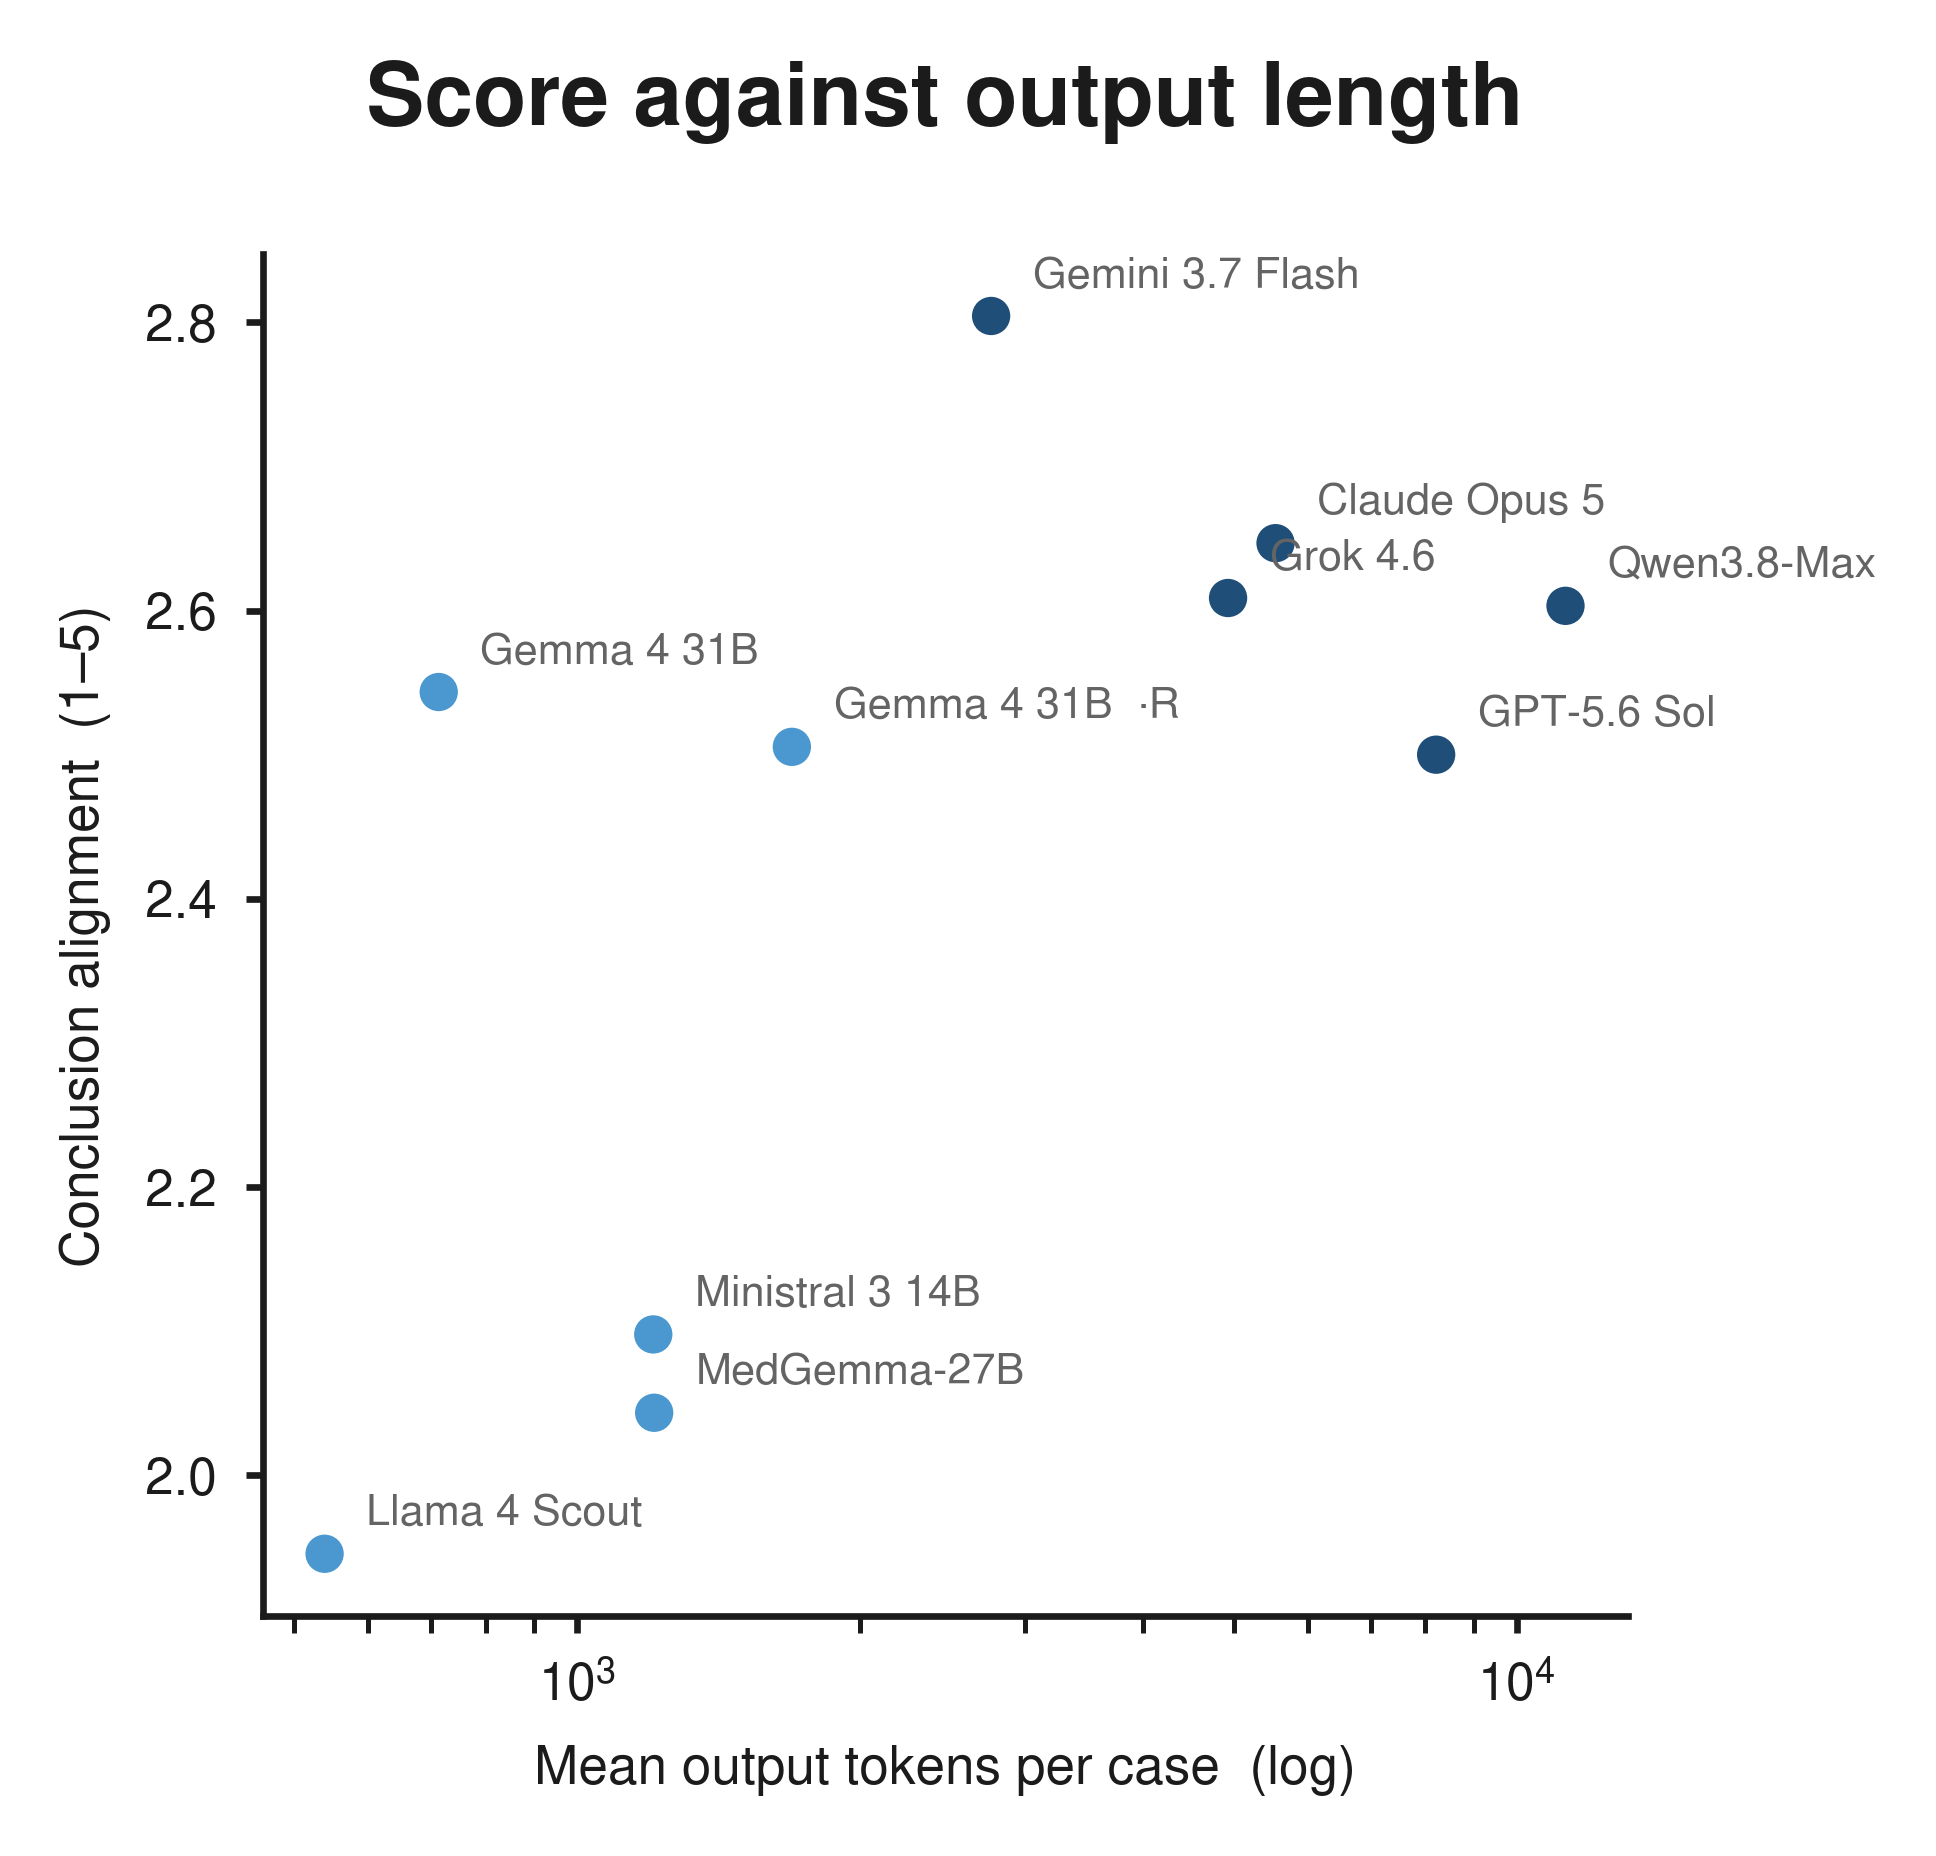
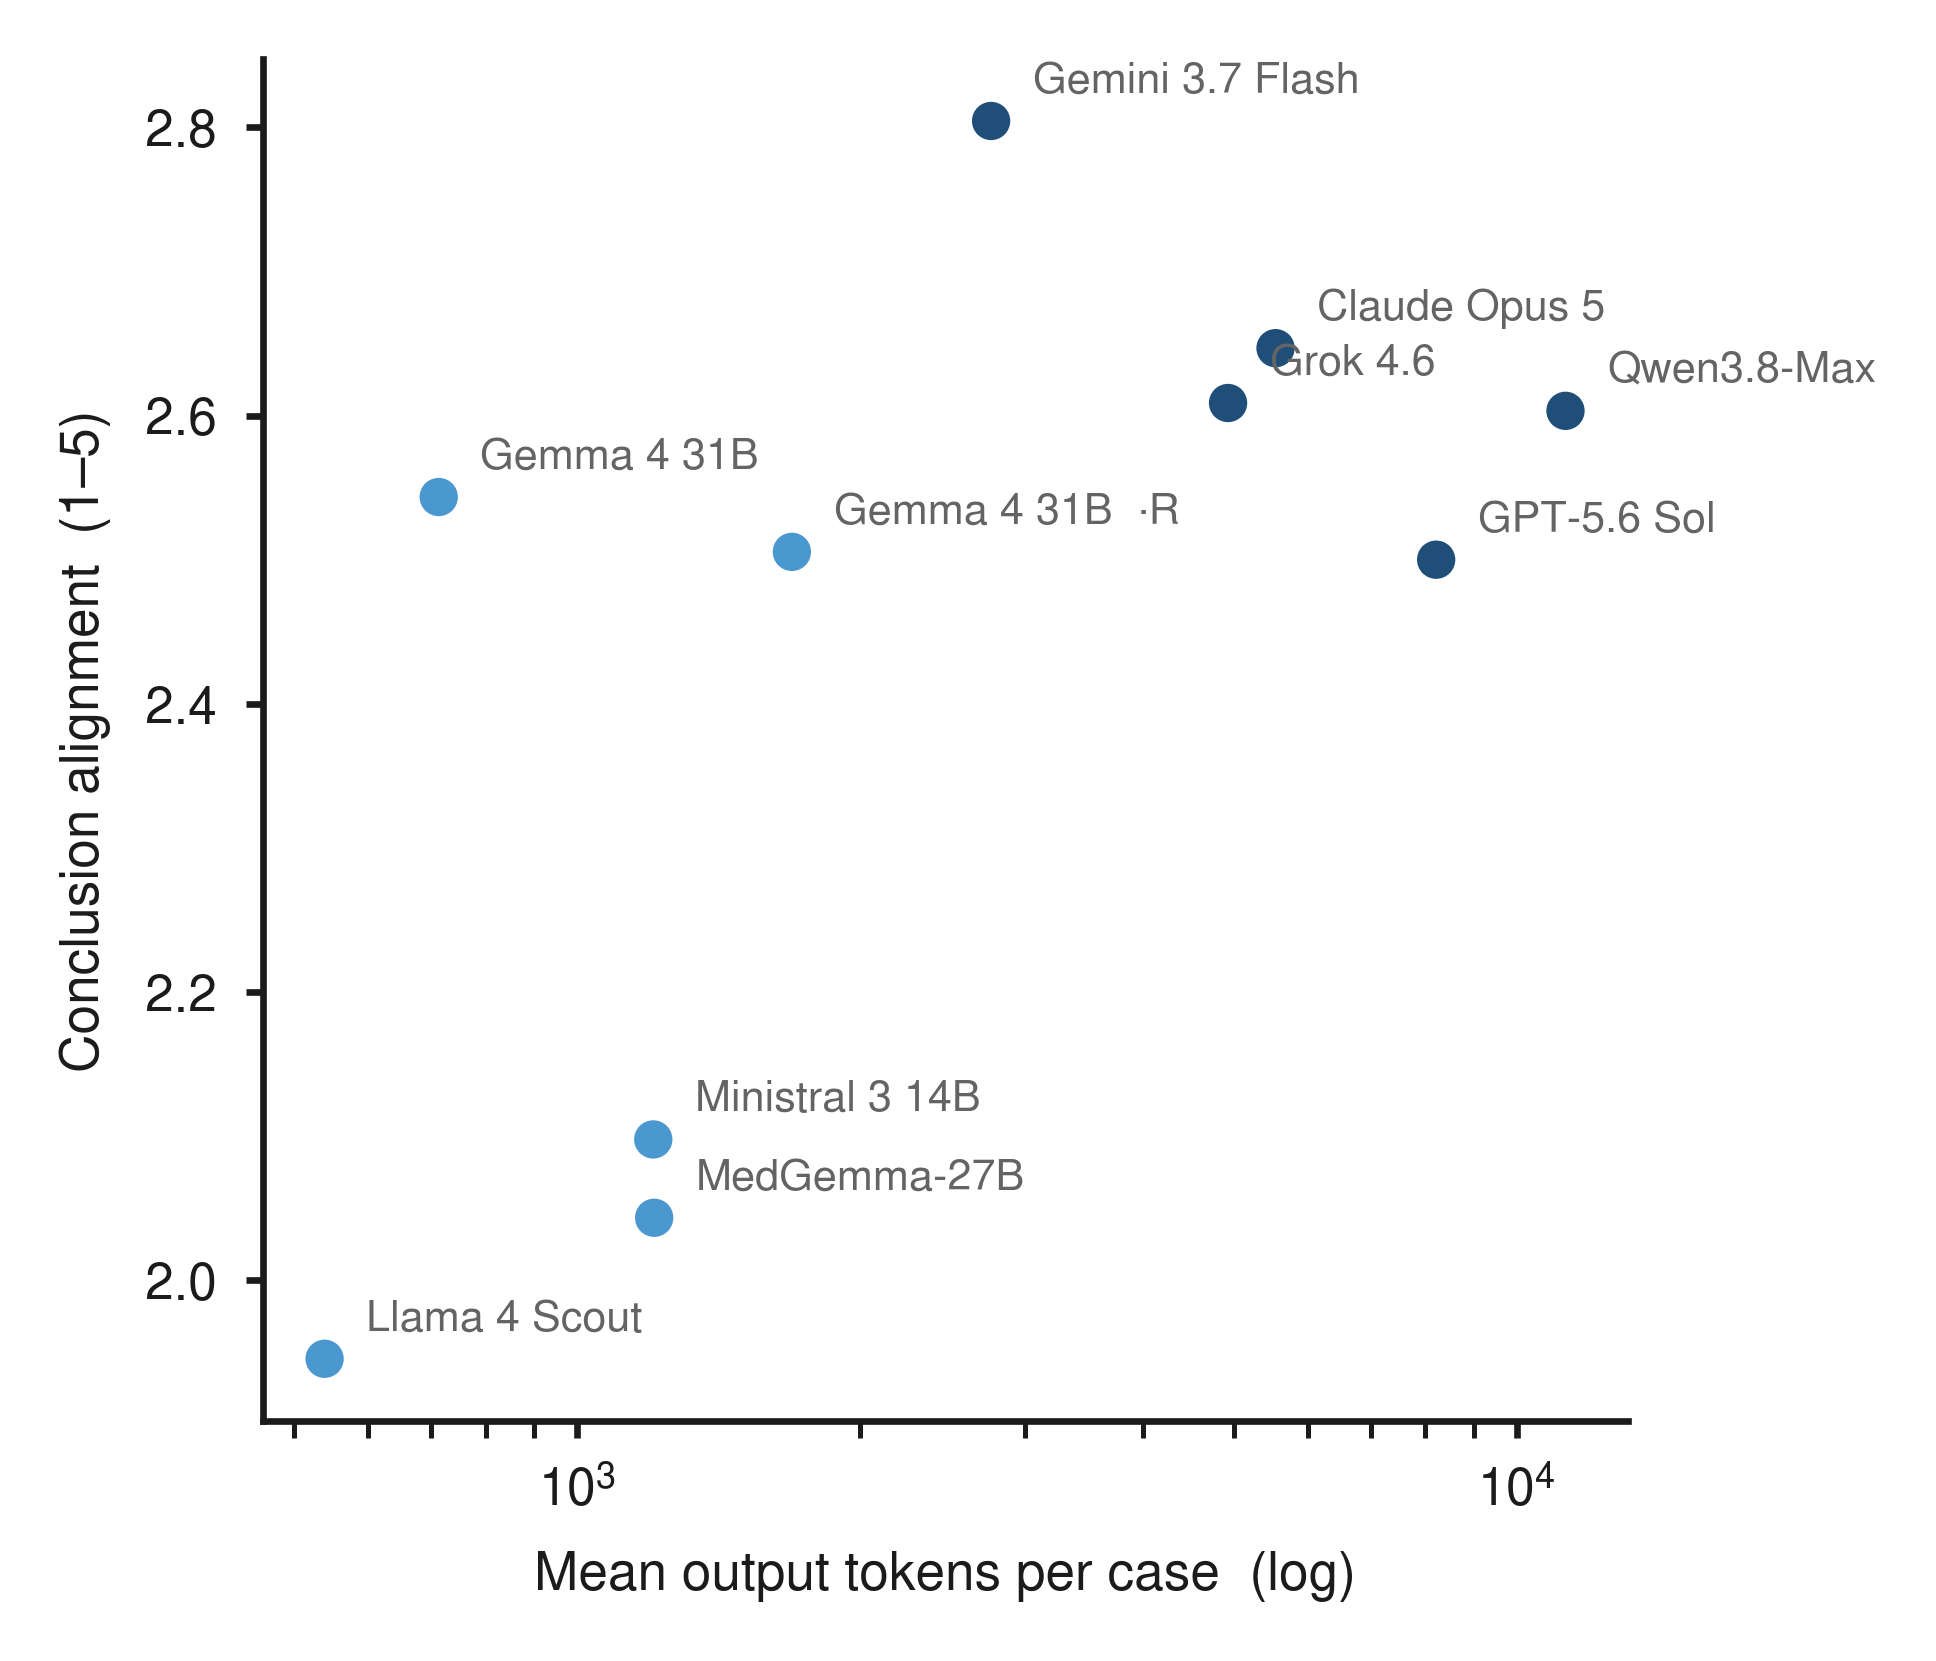
Remove the title from Figure 4b
The panel is the scatter and its axes now. Both axis labels state what is plotted, so
the title was restating them; the closed-vs-open colouring and the interpretation
belong in the caption, where panel_b_scope already keeps the rank correlations.

diff --git a/scripts/paper/figure4_task1_results.py b/scripts/paper/figure4_task1_results.py
@@ -271,9 +271,6 @@ def panel_b(d: dict, out_dir: Path, stem: str) -> list[Path]:
     ax.tick_params(labelsize=FS_TICK, length=2)
     for sp in ("top", "right"):
         ax.spines[sp].set_visible(False)
-    box = ax.get_position()
-    fig.suptitle("Score against output length", fontsize=FS_TITLE - 0.5,
-                 fontweight="bold", x=(box.x0 + box.x1) / 2, y=0.975, ha="center")
     return save(fig, out_dir, stem)
 
 
